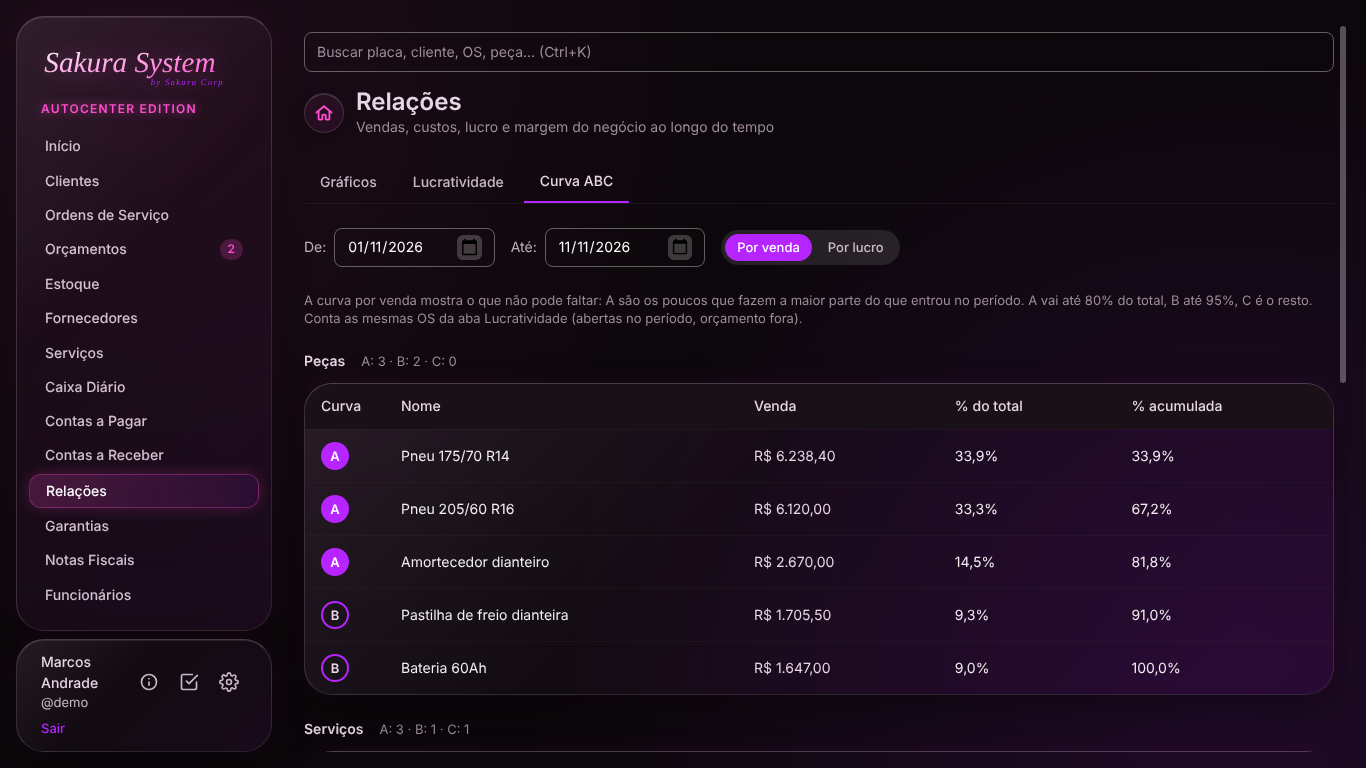
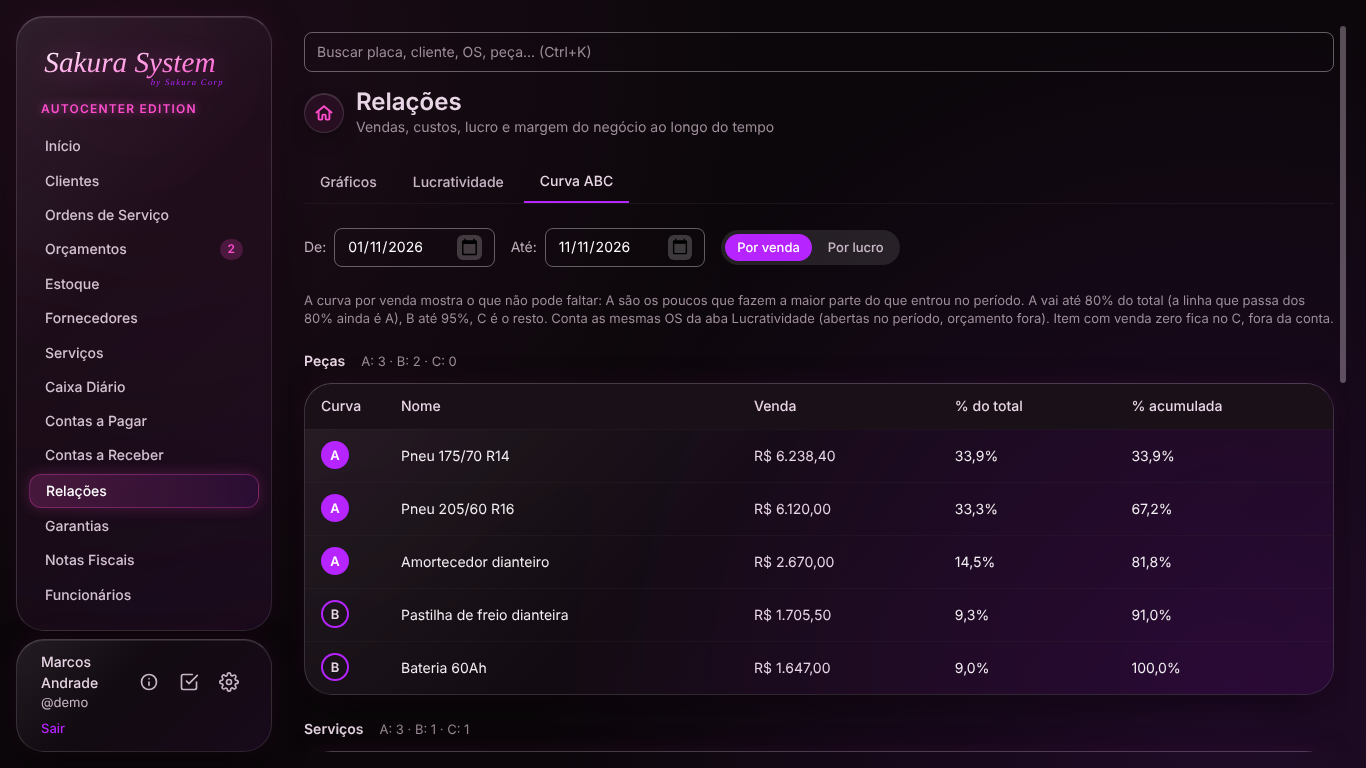
Curva ABC: empate decide pela ordem, textos e selo legível; relatório (#390)
A revisão mostrou que dar a mesma letra a todo bloco de valores iguais
jogava 100 clientes de R$ 30 inteiros no A. Volta a regra de sempre:
entre iguais, a ordem pelo nome decide.

Claude-Session: https://claude.ai/code/session_01Qm3dJ5Q8uUkfTKAacKT4ef

Changed region(s): [[0.2152, 0.375, 0.9839, 0.4375], [0.2152, 0.7812, 0.246, 0.8125]]

diff --git a/src/schemas/curvaABC.test.ts b/src/schemas/curvaABC.test.ts
@@ -69,31 +69,41 @@ describe("classificarABC", () => {
     ]);
   });
 
-  it("empate na fronteira: valores iguais ficam na mesma letra", () => {
-    // 60, 20, 20: o segundo começa em 60% (A); o terceiro começaria em 80%
-    // (B), mas vende o mesmo que o segundo — a ordem entre iguais não pode
-    // decidir a letra.
-    const resultado = classificarABC(
-      [
-        { nome: "x", valor: 60 },
-        { nome: "y", valor: 20 },
-        { nome: "z", valor: 20 },
-      ],
-      valorDe,
-    );
-    expect(letras(resultado)).toEqual([
+  it("empate na fronteira: a ordem pelo nome decide, sempre a mesma", () => {
+    // 60, 20, 20: "y" começa em 60% (A); "z" começa em 80% (B). Os dois
+    // vendem igual: quem vem antes no nome fica em cima, em toda abertura.
+    const linhas = [
+      { nome: "z", valor: 20 },
+      { nome: "x", valor: 60 },
+      { nome: "y", valor: 20 },
+    ];
+    expect(letras(classificarABC(linhas, valorDe))).toEqual([
       ["x", "A"],
       ["y", "A"],
-      ["z", "A"],
+      ["z", "B"],
     ]);
+    expect(letras(classificarABC([...linhas].reverse(), valorDe))).toEqual(
+      letras(classificarABC(linhas, valorDe)),
+    );
   });
 
-  it("tudo igual: todo mundo no A (ninguém se destaca)", () => {
+  it("muitos de valor igual não vão todos pro A (100 clientes de R$ 30)", () => {
+    const linhas = [
+      { nome: "grande", valor: 500 },
+      ...Array.from({ length: 100 }, (_, i) => ({ nome: `c${String(i).padStart(3, "0")}`, valor: 30 })),
+    ];
+    const contagem = contarPorLetra(classificarABC(linhas, valorDe));
+    // Total 3500: o A para em 2800 (80%), o B em 3325 (95%).
+    expect(contagem).toEqual({ A: 78, B: 18, C: 5 });
+  });
+
+  it("tudo igual: a curva corta pela ordem, e a última fecha em 100%", () => {
     const resultado = classificarABC(
-      ["a", "b", "c", "d", "e"].map((nome) => ({ nome, valor: 10 })),
+      Array.from({ length: 20 }, (_, i) => ({ nome: `n${String(i).padStart(2, "0")}`, valor: 10 })),
       valorDe,
     );
-    expect(resultado.linhas.every((l) => l.letra === "A")).toBe(true);
+    // Cada um tem 5%: começam em 0%, 5%, ..., 95%.
+    expect(contarPorLetra(resultado)).toEqual({ A: 16, B: 3, C: 1 });
     expect(resultado.linhas.at(-1)?.acumulada).toBe(100);
   });
 

diff --git a/src/schemas/curvaABC.ts b/src/schemas/curvaABC.ts
@@ -53,9 +53,10 @@ export interface CurvaABC<T> {
  * Com isso o primeiro é sempre A (mesmo com 90% sozinho), e o A é o menor
  * grupo que alcança 80%.
  *
- * Empate: valores iguais ficam na mesma letra (a de cima), pra ordem entre
- * iguais não decidir nada. Entre iguais, a ordem da lista sai pelo `chave`
- * (o nome, por padrão: `String(linha)`), só pra tela não pular.
+ * Empate: entre valores iguais, a ordem sai pela `chave` (o nome, por
+ * padrão) e decide a letra, como na curva ABC de sempre — a tela não pula.
+ * Dar a mesma letra a todo o bloco de iguais foi tentado e caiu na revisão:
+ * com 100 clientes de R$ 30 (o conserto avulso), o bloco inteiro ia pro A.
  *
  * A conta é em centavos inteiros: o 0,1 + 0,2 não vira 0,30000000000000004
  * e a última linha fecha em 100% exatos.
@@ -90,16 +91,13 @@ export function classificarABC<T>(
   const totalCentavos = dentro.reduce((soma, l) => soma + (l.centavos ?? 0), 0);
 
   let acumuladoCentavos = 0;
-  let anterior: { centavos: number; letra: LetraABC } | null = null;
   const classificadas: LinhaABC<T>[] = dentro.map(({ linha, centavos }) => {
     const valor = centavos ?? 0;
     // Comparação em inteiros: antes × 100 < corte × total.
     const antes = acumuladoCentavos * 100;
-    let letra: LetraABC =
+    const letra: LetraABC =
       antes < cortes.A * totalCentavos ? "A" : antes < cortes.B * totalCentavos ? "B" : "C";
-    if (anterior && anterior.centavos === valor) letra = anterior.letra;
     acumuladoCentavos += valor;
-    anterior = { centavos: valor, letra };
     return {
       linha,
       letra,

diff --git a/src/pages/relatorios/CurvaABCSection.tsx b/src/pages/relatorios/CurvaABCSection.tsx
@@ -119,10 +119,12 @@ export function CurvaABCSection({ ordens, pecas, servicos }: CurvaABCSectionProp
         {criterio === "venda"
           ? "A curva por venda mostra o que não pode faltar: A são os poucos que fazem a maior parte do que entrou no período."
           : "A curva por lucro mostra o que vale a pena: o que vendeu menos o custo."}{" "}
-        A vai até {CORTES_ABC.A}% do total, B até {CORTES_ABC.B}%, C é o resto. Conta as mesmas OS
-        da aba Lucratividade (abertas no período, orçamento fora).
-        {criterio === "lucro" &&
-          ` Item com ${TEXTO_CUSTO_NAO_INFORMADO} e lucro zero ou negativo ficam no C, fora da conta.`}
+        A vai até {CORTES_ABC.A}% do total (a linha que passa dos {CORTES_ABC.A}% ainda é A), B até{" "}
+        {CORTES_ABC.B}%, C é o resto. Conta as mesmas OS da aba Lucratividade (abertas no período,
+        orçamento fora).{" "}
+        {criterio === "lucro"
+          ? `Item com ${TEXTO_CUSTO_NAO_INFORMADO}, ou com lucro zero ou negativo, fica no C, fora da conta.`
+          : "Item com venda zero fica no C, fora da conta."}
       </p>
 
       <ListaABC
@@ -219,6 +221,7 @@ function ListaABC<T>({
                   <td className="px-4 py-3">
                     <span
                       className={`inline-flex h-7 w-7 items-center justify-center rounded-full text-rotulo font-semibold ${CLASSE_DO_SELO[l.letra]}`}
+                      role="img"
                       aria-label={`Curva ${l.letra}`}
                     >
                       {l.letra}

diff --git a/docs/relatorios/2026-11-11-tarefa-390-frontend.md b/docs/relatorios/2026-11-11-tarefa-390-frontend.md
@@ -1,0 +1,56 @@
+# Relatório: tarefa #390, chefe frontend
+
+- **Tarefa**: #390, Curva ABC: quais peças, serviços e clientes mais rendem
+- **Chefe**: frontend
+- **Data**: 2026-11-11
+- **PR**: (o link vai na descrição do PR que aponta pra este arquivo)
+- **Jeito**: com ajudantes
+
+## O que cada agente fez
+- Sessão mãe: planejou, escreveu os testes e as funções de `src/schemas/`, a tela, tirou as fotos e mediu contraste e largura.
+- Revisor (`ajudante-forte`, esforço alto): leu o diff do zero. Achou que a regra de empate que eu tinha escolhido jogava quase tudo no A quando muitos clientes gastam o mesmo valor (confirmou rodando: 1 de R$ 500 e 100 de R$ 30 davam 101 no A). Também apontou 5 pontos pequenos.
+- Explorador, construtor de tela e fotógrafo: não chamei. Eram poucos arquivos, já conhecidos, e chamar um ajudante custaria mais que fazer direto.
+
+## Modelos usados
+- Planejar, schemas (dinheiro), tela e fotos: a própria sessão mãe (forte, `claude-opus-5-5`). A tabela da issue pedia um ajudante médio pra tela e um rápido pras fotos. Fiz direto pra não gastar cota.
+- Revisão final: forte (`ajudante-forte`), esforço alto. Não precisei trocar de modelo.
+
+## Sessões filhas
+- Nenhuma (a issue diz `Sessões filhas: não`).
+
+## Gasto
+- **Uso da sessão mãe** (via arquivo, medido antes do PR): 65 respostas; entrada 127, cache criado 146.975, cache lido 9.512.408, saída 49.644 tokens.
+- **Ajudantes** (via arquivo): 1 revisor, forte, esforço alto. 15 respostas; cache criado 100.372, cache lido 1.242.545, saída 10.469. Pelo aviso de fim: 103.141 tokens.
+- **Sessões filhas**: nenhuma.
+- **`/goal`**: mostrei o texto na primeira mensagem. Não sei se a pessoa ligou.
+
+## O que testei e VI reprovar
+- `curvaABC.test.ts`: reprovou antes de o arquivo `curvaABC.ts` existir ("Cannot find module"). Reprovou de novo quando mudei o corte do A de 80 pra 70.
+- Regra de empate: troquei pela regra que a revisão derrubou ("iguais na mesma letra"). Os 3 testes novos reprovaram (o do empate, o dos 100 clientes de R$ 30 e o do "tudo igual").
+- `curvasABC` (a escolha venda/lucro e as três listas): reprovou antes de a função existir.
+- `lucratividade.test.ts`: os testes novos (`tipo` e `lucratividadePorCliente`) reprovaram antes do código. O teste "a soma bate com o Vendido no período" reprovou quando tirei o Consumidor do total dos clientes de propósito.
+- `CurvaABCSection.test.tsx`: reprovou quando fiz a tela abrir em "Por lucro" no lugar de "Por venda".
+
+## O que passou sem eu ter visto reprovar
+- Os testes antigos de `lucratividade.test.ts`. Continuam verdes sem mudar nenhum número: nos objetos esperados só entrou o campo `tipo`.
+- `arquitetura.test.ts`, `typecheck` e `lint` (fica 1 aviso antigo, de `AuthContext.tsx`, que já existe na `main`). Também `test:fusos` (1718 testes nos dois fusos) e `contraste`.
+- Contraste e largura da aba nova, medidos com as mesmas funções do `contraste:telas` e do `largura:telas`. Deu zero achado nas larguras 1024, 1280, 1366, 1536 e 1600, por venda e por lucro.
+
+## O que ficou de fora
+- **A aba nova não entrou na lista de cenas** (`site/ferramentas/cenas.mjs`). Esse arquivo está fora da lista da issue. Por isso o `contraste:telas` e o `largura:telas` do CI ainda não passam pela aba. Medi com um script meu, que acrescenta a cena só enquanto ele roda. Sugestão: uma cena `{ aba: "Curva ABC" }` ao lado da `37-lucratividade`, se a Sofia aprovar.
+- **Cliente por lucro**: um item sem custo em qualquer OS do cliente tira ele inteiro da curva por lucro (vai pro C, "custo não informado"). Segue a regra da issue, mas pesa mais no cliente do que numa peça. Fica pra Sofia decidir se quer outro jeito.
+- **Caso raro, que já existia antes**: uma peça avulsa e um serviço antigo (sem `servico_id`, antes da 0012) com exatamente o mesmo nome viram uma linha só, e ela cai numa das duas listas. Não mexi no agrupamento, porque a issue proíbe mudar a conta.
+- **Selos A/B/C**: escolhi um visual (A cheio, B com contorno roxo, C com contorno cinza) depois de ver, na foto, que a primeira versão sumia no tema escuro. A regra diz que aparência a Sofia escolhe por imagem: as fotos estão no PR.
+
+## O que depende de alguém
+- **Tiago, no PC** (`docs/equipe.md`, "Testar no seu computador o que a sessão da nuvem fez"), **caso B** (abrir o programa), branch `claude/tarefa-390-frontend-q1cct6`, no Supabase de teste. Roteiro: Relações → Curva ABC no mês, conferir as letras e os 100% no fim. Em Lucratividade, o "Vendido no período" tem que ser igual a peças + serviços. Mudar o período e ver as listas mudarem. Fazer o teste de permissão com um login só com Relações.
+- **Sofia**: revisar o PR. Decidir a regra do empate (fui pela de sempre: entre iguais, a ordem pelo nome decide), os selos e a cena no `cenas.mjs`. Depois de publicar, conferir a curva do mês passado na loja.
+
+## Onde parou
+Terminei.
+
+## Como eu agi
+- **O que a skill me ajudou a fazer**: a regra "olhar a tela renderizada de verdade" pegou o selo B sumindo no tema escuro, que nenhuma medição de contraste acusou. A revisão do zero pegou a regra de empate errada, que os meus próprios testes confirmavam (eu tinha escrito o teste a favor da regra).
+- **Onde eu errei ou tive que adivinhar**: escrevi esperados errados de cabeça 3 vezes (o teste pegou todas). A regra de empate fui eu que inventei, sem a issue pedir. Uma restauração com `sed` pegou uma linha da conta antiga, e voltei pelo backup antes do commit.
+- **O que faltou na skill**: dizer como fotografar uma tela que ainda não está em `cenas.mjs` quando esse arquivo está fora da lista da issue.
+- **Sugestão de ajuste (opcional)**: no modelo de tarefa de tela nova, pôr `site/ferramentas/cenas.mjs` na lista de arquivos sempre que a tarefa pede fotos.
